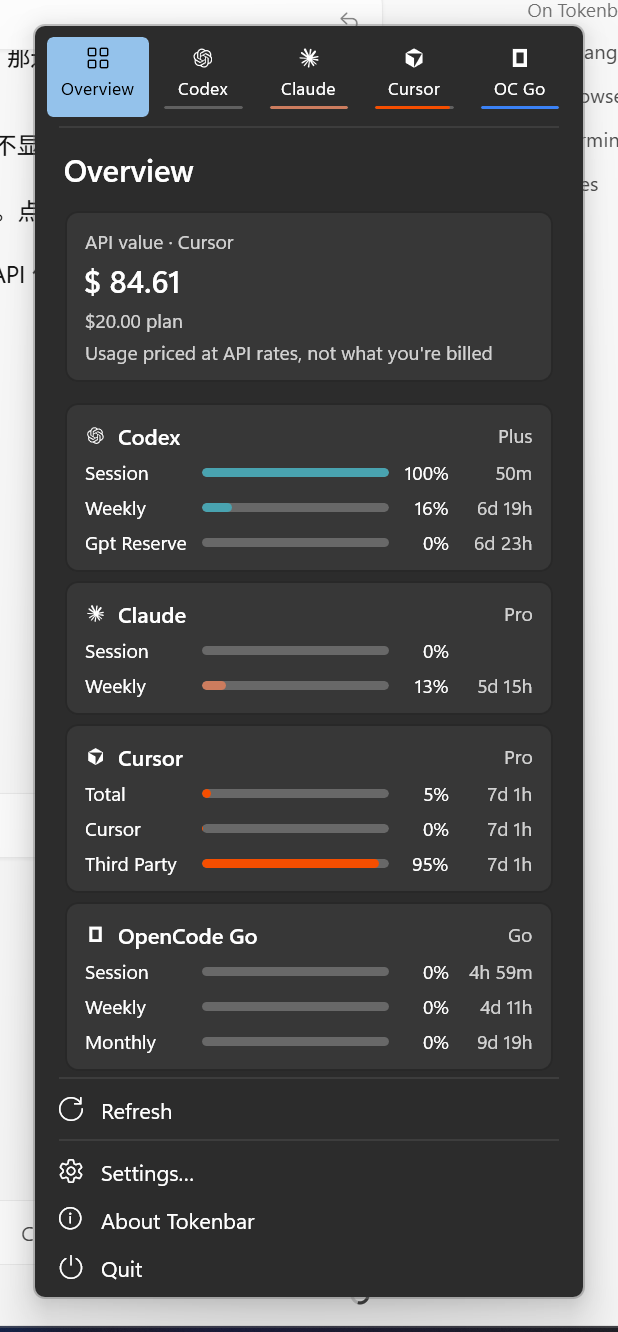
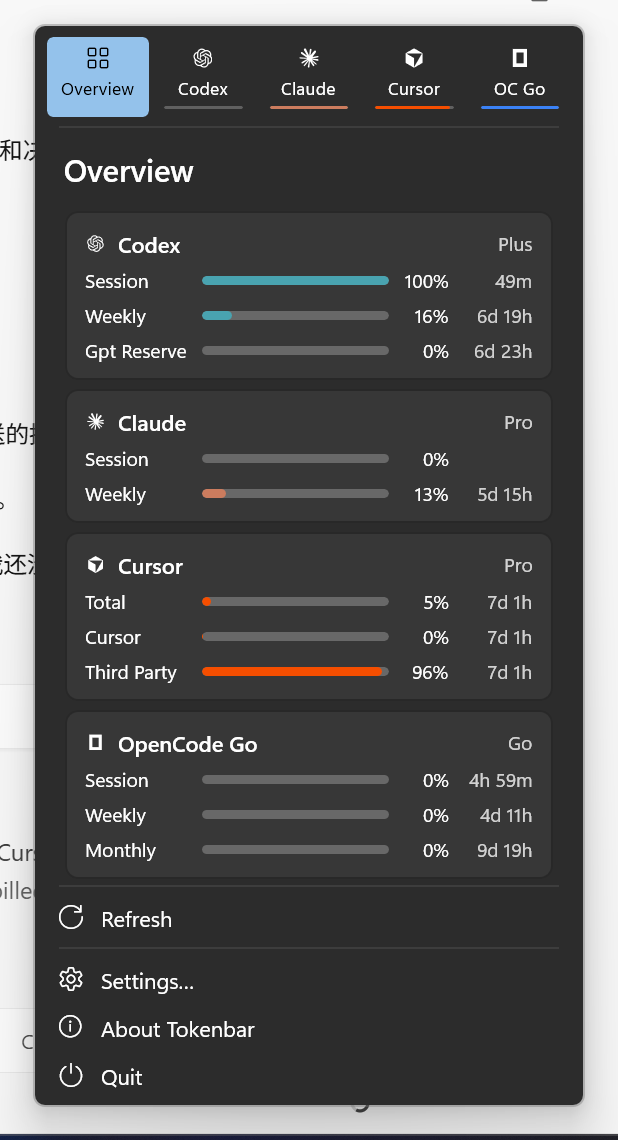
总览不再显示 Cursor 的 API 价值，只汇总真实花费

diff --git a/src/Tokenbar/Views/FlyoutWindow.xaml.cs b/src/Tokenbar/Views/FlyoutWindow.xaml.cs
@@ -395,7 +395,7 @@ public sealed partial class FlyoutWindow : Window
 
         var spends = enabled
             .Select(id => (Id: id, Spend: _store.Get(id)?.Spend))
-            .Where(x => x.Spend is not null)
+            .Where(x => x.Spend is { IsApiValue: false })
             .Select(x => (x.Id, Spend: x.Spend!))
             .ToList();
         if (spends.Count > 0) ContentPanel.Children.Add(SpendSummaryCard(spends, enabled.Count));
@@ -408,19 +408,8 @@ public sealed partial class FlyoutWindow : Window
     private FrameworkElement SpendSummaryCard(IReadOnlyList<(ProviderId Id, SpendSummary Spend)> spends, int providerCount)
     {
         var panel = new StackPanel { Spacing = 4 };
-        var billed = spends.Where(s => !s.Spend.IsApiValue).ToList();
-        var apiValue = spends.Where(s => s.Spend.IsApiValue).ToList();
-        if (billed.Count > 0)
-        {
-            SpendGroup(panel, Strings.SpendSummaryTitle, billed);
-            panel.Children.Add(Secondary(Strings.SpendCoverage(billed.Count, providerCount)));
-        }
-        if (apiValue.Count > 0)
-        {
-            if (billed.Count > 0) panel.Children.Add(new Border { Height = 6 });
-            SpendGroup(panel, Strings.ApiValueTitle, apiValue);
-            panel.Children.Add(Secondary(Strings.ApiValueHint));
-        }
+        SpendGroup(panel, Strings.SpendSummaryTitle, spends);
+        panel.Children.Add(Secondary(Strings.SpendCoverage(spends.Count, providerCount)));
         return Card(panel);
     }
 

diff --git a/HANDOFF.md b/HANDOFF.md
@@ -14,7 +14,7 @@
 - 架构：fork Win-CodexBar（`enlivatech/Win-CodexBar`，子模块 `vendor/Win-CodexBar`），只用它的 Rust CLI 取数据（`--source auto` 默认自动选路）；界面是自己写的 C# + WinUI 3。设置保持精简（AZ 认可）：每个工具一个开关，只有需要密钥的工具才有输入框。
 - 托盘图标：Win32 `Shell_NotifyIcon` 自绘，CodexBar 双条几何，几乎铺满托盘格子，跟随任务栏深浅色，过期变暗。
 - 弹出面板：亚克力、Fluent 控件；顶部标签（总览 + 各工具，名字下 2px 品牌色迷你条）；用量条是自绘 6px 胶囊（WinUI ProgressBar 底轨只有 1px）；滚动条隐藏（滚轮仍可滚）；底部刷新、设置、关于、退出。
-- 总览页：API 价值 / 花费汇总卡 + 每个工具一张卡（前三条额度：名称、条、百分比、短格式重置时间），点卡片进入该工具。
+- 总览页：实际花费汇总卡（只有工具返回真实扣费时才出现；Cursor 的 API 价值只在 Cursor 页显示）+ 每个工具一张卡（前三条额度：名称、条、百分比、短格式重置时间），点卡片进入该工具。
 - 点外面收起：监听前台窗口变化（`SetWinEventHook(EVENT_SYSTEM_FOREGROUND)`），不再只靠 Deactivated（面板常拿不到焦点）。
 - 设置窗口（Mica + NavigationView）：通用（开机自启、刷新间隔、立即刷新）、工具（开关、状态、数据来源说明、API Key / Cookie 保存与移除、Claude 凭据授权）、关于。
 - 套餐名简化（`PlanLabel`：Claude `default_claude_ai` → Pro 等）。

diff --git a/docs/DECISION_LOG.md b/docs/DECISION_LOG.md
@@ -17,3 +17,4 @@
 - 2026-10-07 [决策] Cursor 条目名照 CodexBar 用 Total / Cursor / Third Party；按 API 价折算的 cost 显示为「API 价值 / 套餐」，不当作实际花费
 - 2026-10-07 [踩坑] 面板经常拿不到前台焦点，Deactivated 不触发导致点外面不收起；改为监听 EVENT_SYSTEM_FOREGROUND
 - 2026-10-07 [踩坑] WinUI ProgressBar 底轨固定约 1px 加不粗，改为自绘胶囊条
+- 2026-10-07 [决策] Cursor 的 API 价值只放在 Cursor 页，不进总览；总览只汇总真实扣费（AZ 要求）
